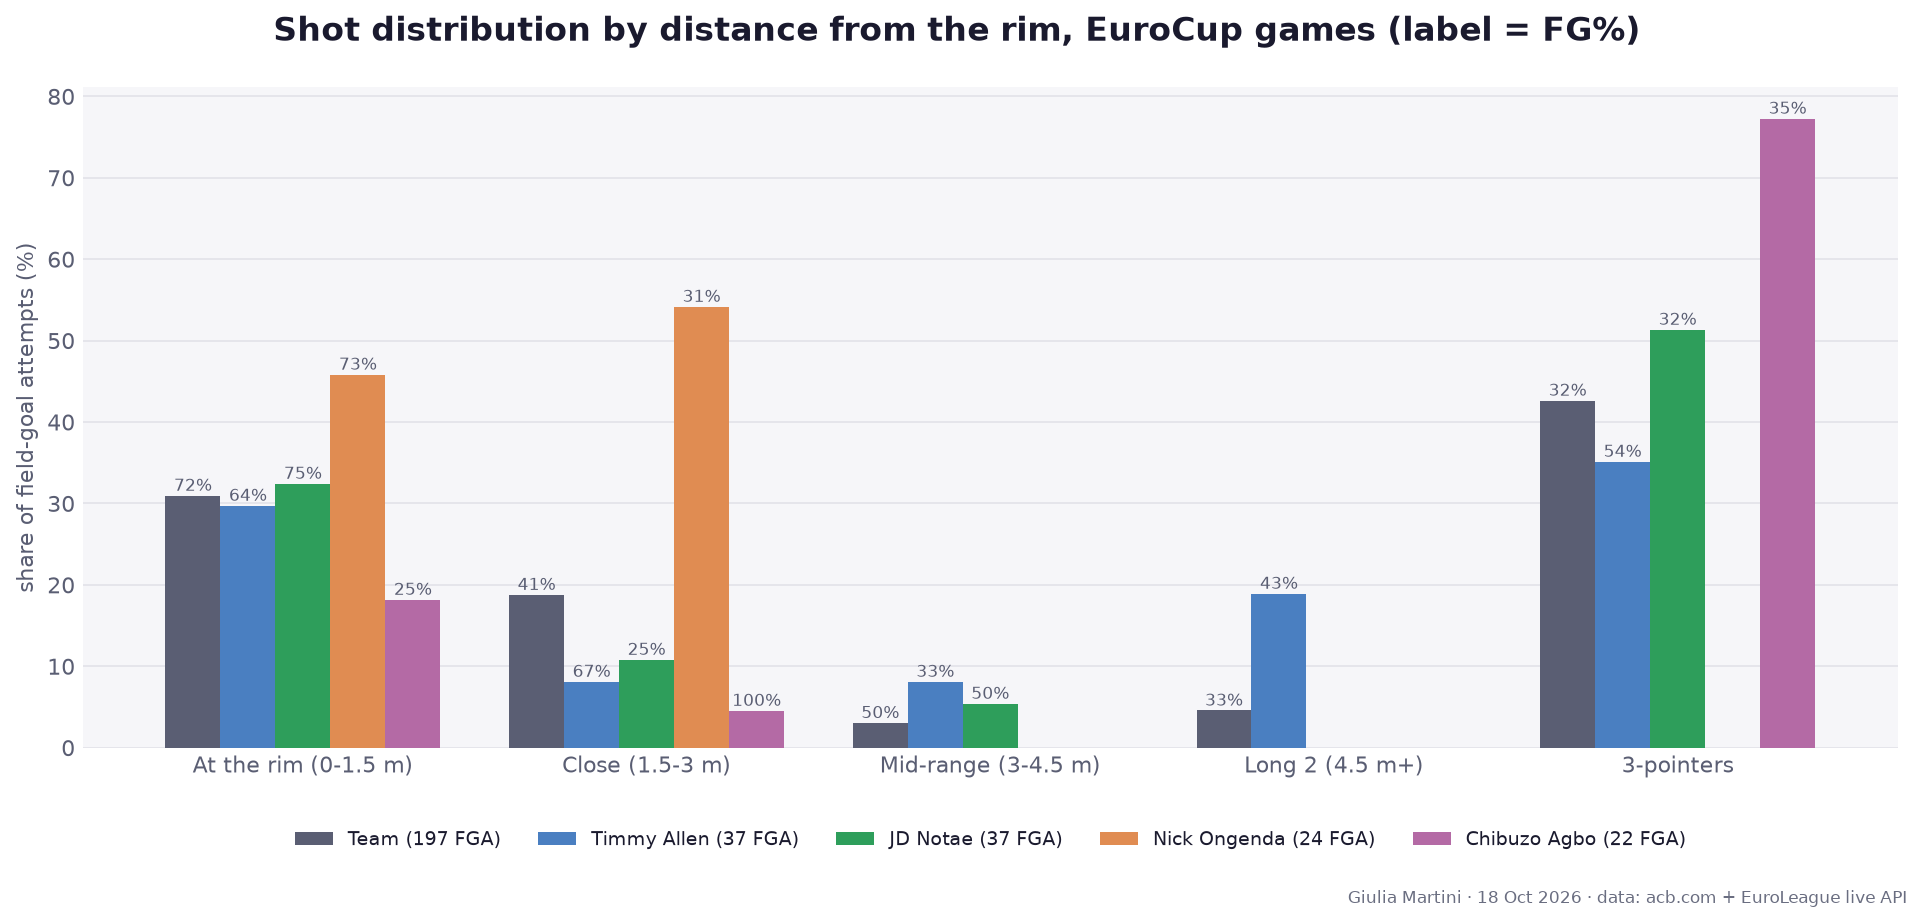
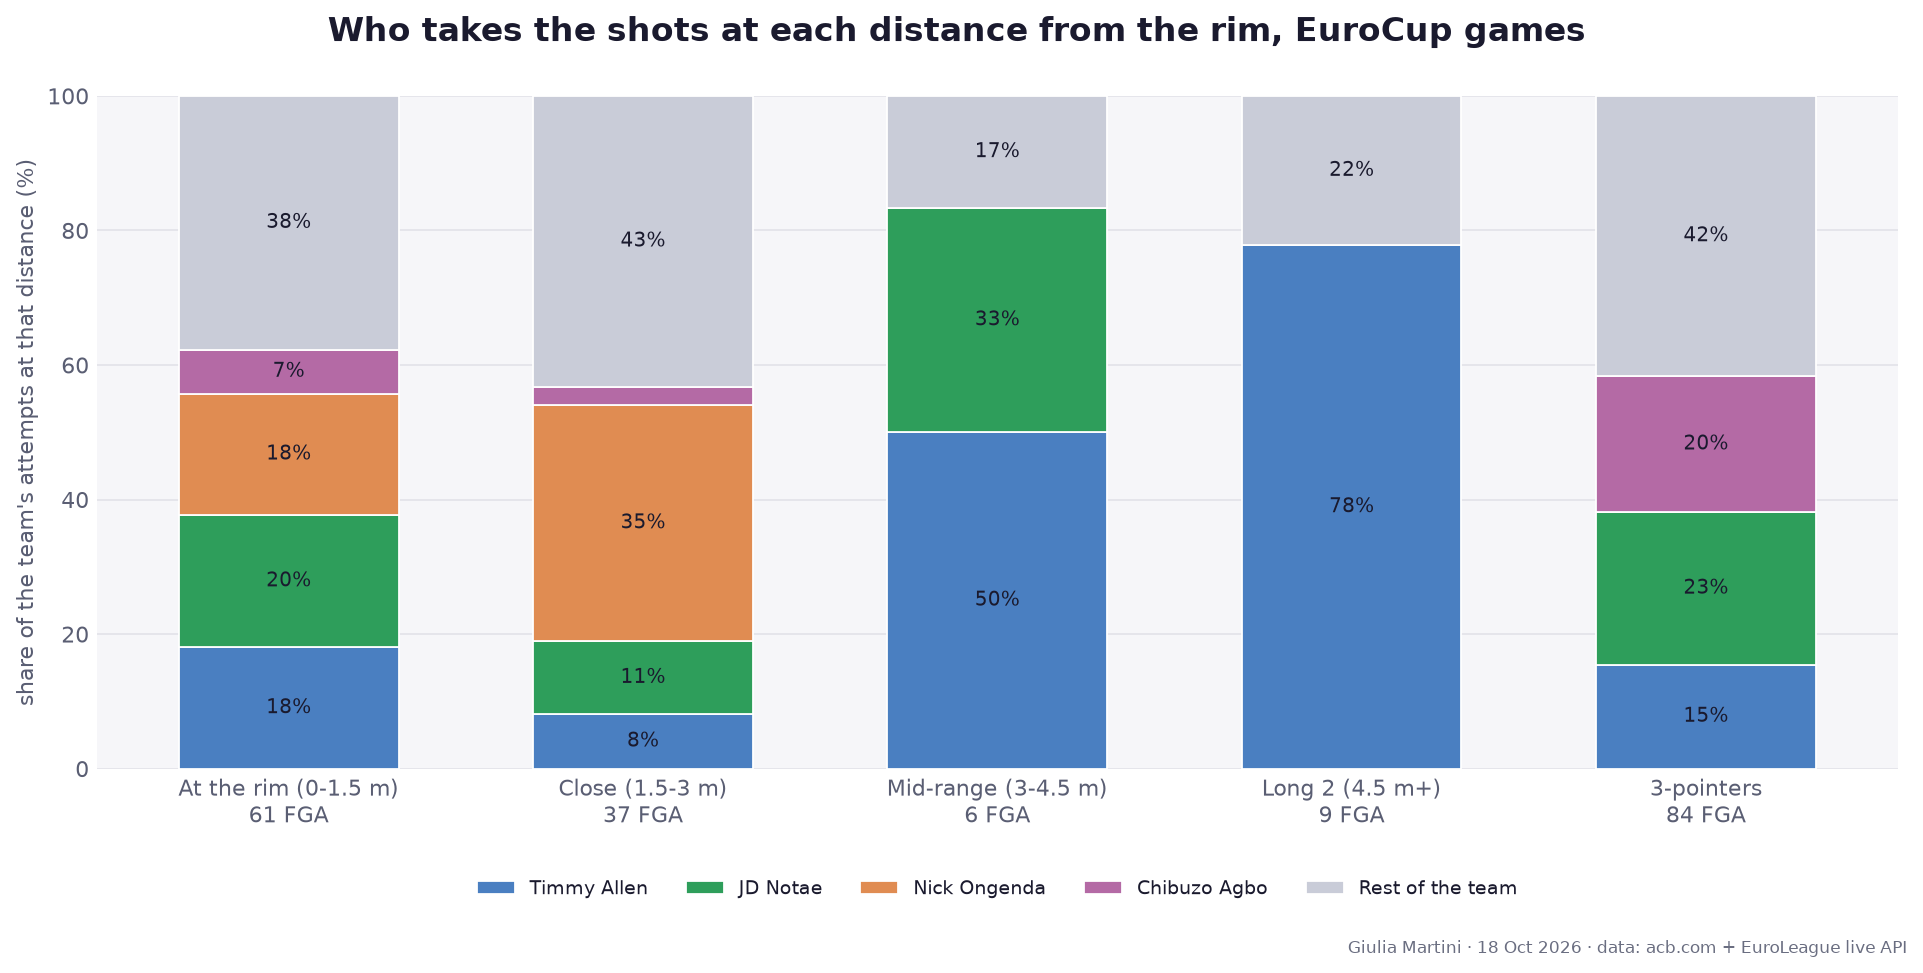
Manresa report: stacked shot-distance chart (main scorers + rest = 100%)

diff --git a/notebooks/manresa_report.py b/notebooks/manresa_report.py
@@ -207,24 +207,33 @@ def distance_table(shots: pd.DataFrame, scorers: list[str]) -> pd.DataFrame:
     return pd.concat(cols, axis=1)
 
 
-def fig_distance(table: pd.DataFrame, out: Path) -> Path:
-    """Grouped bars: share of attempts by distance for the team and each main scorer, FG% on top."""
-    names = table.columns.get_level_values(0).unique()
-    fig, ax = plt.subplots(figsize=(12, 5.5))
-    width = 0.8 / len(names)
-    palette = [TEXT2, BLUE, GREEN, "#e08c52", "#b46aa5"]
-    for k, name in enumerate(names):
-        x = np.arange(len(DIST_LABELS)) + k * width
-        share, fg, att = table[name].share, table[name].fg, table[name].att
-        ax.bar(x, share, width, label=f"{name} ({int(att.sum())} FGA)", color=palette[k % len(palette)])
-        for xi, sh, pct, n in zip(x, share, fg, att):
-            if n:
-                ax.text(xi, sh + 0.6, f"{pct:.0f}%", ha="center", fontsize=7.5, color=TEXT2)
-    ax.set_xticks(np.arange(len(DIST_LABELS)) + width * (len(names) - 1) / 2, DIST_LABELS)
-    ax.set_ylabel("share of field-goal attempts (%)")
+def attempt_split(shots: pd.DataFrame, scorers: list[str]) -> pd.DataFrame:
+    """Per distance bin: each main scorer's share of the team's attempts, plus the rest (sums to 100)."""
+    who = shots.player.where(shots.player.isin(scorers), "Rest of the team")
+    counts = pd.crosstab(shots.bin, who).reindex(index=DIST_LABELS, columns=scorers + ["Rest of the team"],
+                                                 fill_value=0)
+    return counts.div(counts.sum(axis=1), axis=0) * 100, counts.sum(axis=1)
+
+
+def fig_distance(split: pd.DataFrame, totals: pd.Series, out: Path) -> Path:
+    """Stacked bars per distance: who takes the team's shots (main scorers + rest = 100%)."""
+    palette = [BLUE, GREEN, "#e08c52", "#b46aa5", "#c9ccd8"]
+    fig, ax = plt.subplots(figsize=(12, 5.8))
+    bottom = np.zeros(len(split))
+    for color, name in zip(palette, split.columns):
+        ax.bar(range(len(split)), split[name], bottom=bottom, color=color, label=name, width=0.62,
+               edgecolor="white", linewidth=0.8)
+        for i, val in enumerate(split[name]):
+            if val >= 6:
+                ax.text(i, bottom[i] + val / 2, f"{val:.0f}%", ha="center", va="center", fontsize=9,
+                        color=TEXT)
+        bottom += split[name].values
+    ax.set_xticks(range(len(split)), [f"{label}\n{int(totals[label])} FGA" for label in split.index])
+    ax.set_ylim(0, 100)
+    ax.set_ylabel("share of the team's attempts at that distance (%)")
     style_axes(ax, "y")
-    ax.legend(ncols=len(names), loc="upper center", bbox_to_anchor=(0.5, -0.1), fontsize=8.5)
-    fig.suptitle("Shot distribution by distance from the rim, EuroCup games (label = FG%)", **SUP_KW)
+    ax.legend(ncols=len(split.columns), loc="upper center", bbox_to_anchor=(0.5, -0.14), fontsize=8.5)
+    fig.suptitle("Who takes the shots at each distance from the rim, EuroCup games", **SUP_KW)
     path = out / "03_shot_distance.png"
     save_fig(fig, path)
     plt.close(fig)
@@ -296,7 +305,7 @@ def extra_sections(starters: pd.DataFrame, assists: pd.DataFrame, matrix: pd.Dat
     L += ["", "## Shot distribution by distance from the rim", "", "![distance](03_shot_distance.png)", "",
           "EuroCup games only (3 games, "
           f"{len(shots)} attempts): ACB does not publish shot locations. Main scorers = top 4 by total points. "
-          "Share of own attempts / FG%:", "",
+          "Table: share of each player's own attempts / FG%. The chart shows who takes the team's attempts at each distance.", "",
           "| Distance | " + " | ".join(dist.columns.get_level_values(0).unique()) + " |",
           "|---|" + "---|" * len(dist.columns.get_level_values(0).unique())]
     for label in DIST_LABELS:
@@ -361,7 +370,8 @@ def main() -> None:
     dist = distance_table(shots, scorers)
     starters = starters_table(box, games)
     _, matrix = fig_assists(assists, out)
-    fig_distance(dist, out)
+    split, totals = attempt_split(shots, scorers)
+    fig_distance(split, totals, out)
     fig_shot_charts(shots, scorers, out)
     units = aggregate_units(lineup_stints(events, games))
     fig_players(table, out)

diff --git a/docs/analyses/matchup_Kids_Us_Manresa_scouting_before_2026-10-18/README.md b/docs/analyses/matchup_Kids_Us_Manresa_scouting_before_2026-10-18/README.md
@@ -101,7 +101,7 @@ Most frequent combinations:
 
 ![distance](03_shot_distance.png)
 
-EuroCup games only (3 games, 197 attempts): ACB does not publish shot locations. Main scorers = top 4 by total points. Share of own attempts / FG%:
+EuroCup games only (3 games, 197 attempts): ACB does not publish shot locations. Main scorers = top 4 by total points. Table: share of each player's own attempts / FG%. The chart shows who takes the team's attempts at each distance.
 
 | Distance | Team | Timmy Allen | JD Notae | Nick Ongenda | Chibuzo Agbo |
 |---|---|---|---|---|---|

diff --git a/reports/matchup_Kids_Us_Manresa_scouting_before_2026-10-18/README.md b/reports/matchup_Kids_Us_Manresa_scouting_before_2026-10-18/README.md
@@ -101,7 +101,7 @@ Most frequent combinations:
 
 ![distance](03_shot_distance.png)
 
-EuroCup games only (3 games, 197 attempts): ACB does not publish shot locations. Main scorers = top 4 by total points. Share of own attempts / FG%:
+EuroCup games only (3 games, 197 attempts): ACB does not publish shot locations. Main scorers = top 4 by total points. Table: share of each player's own attempts / FG%. The chart shows who takes the team's attempts at each distance.
 
 | Distance | Team | Timmy Allen | JD Notae | Nick Ongenda | Chibuzo Agbo |
 |---|---|---|---|---|---|
